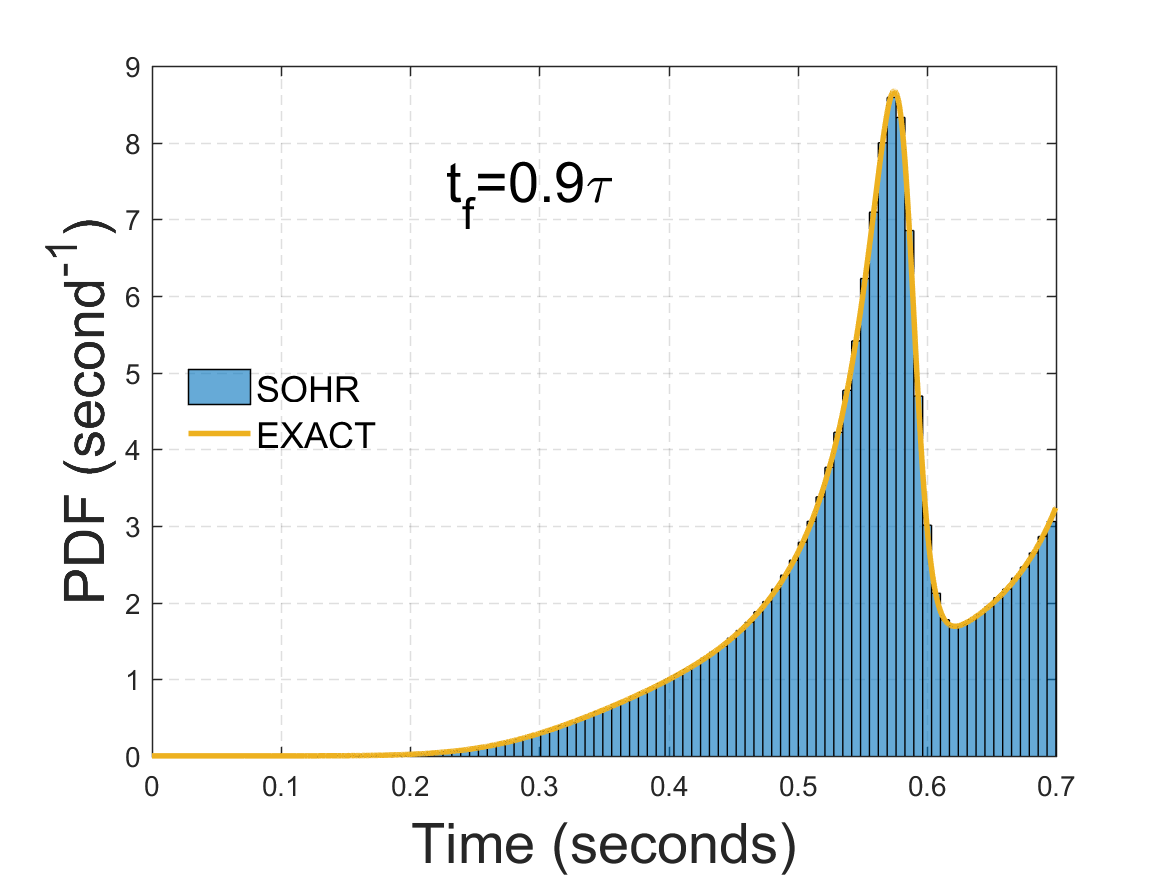
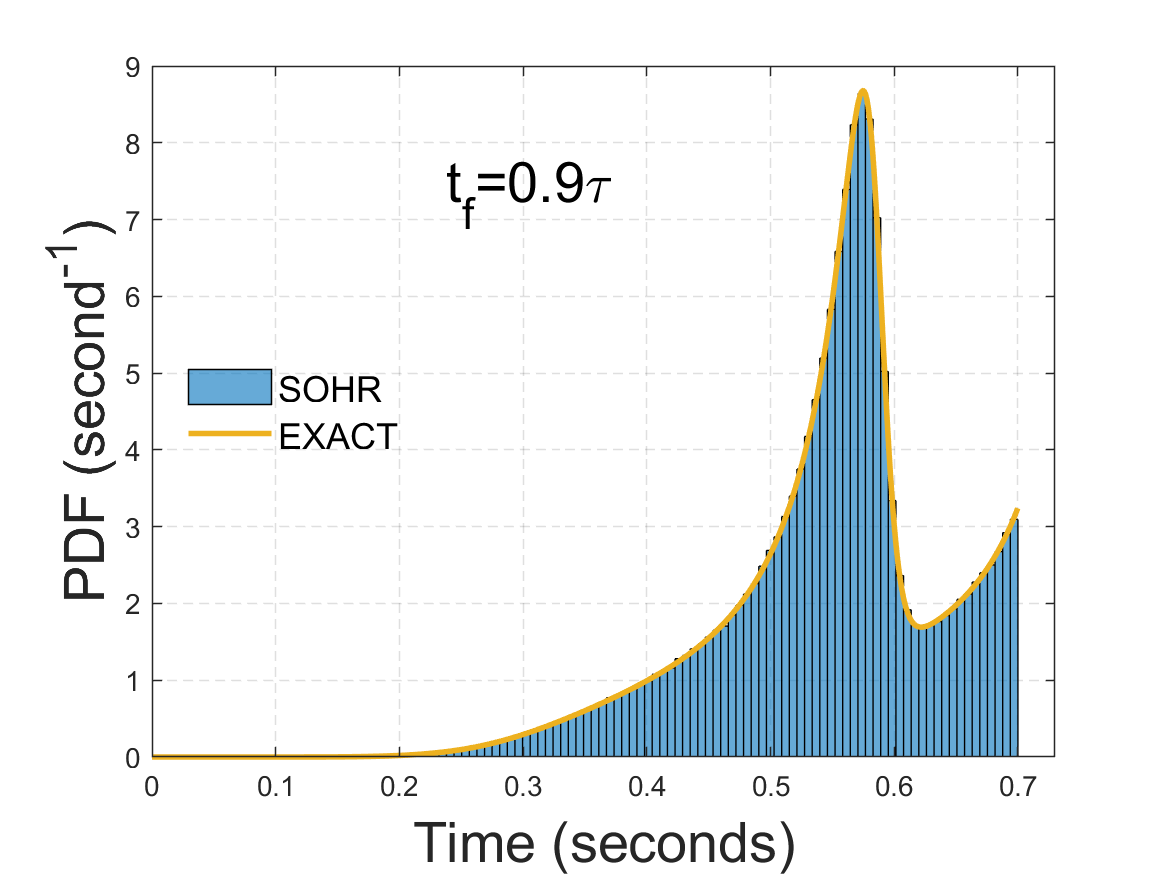
minor

diff --git a/theory/misc/life_time/plot_k_temp_panel4.m b/theory/misc/life_time/plot_k_temp_panel4.m
@@ -31,6 +31,22 @@ drc_mat = [dataArray{1:end-1}];
 %% Clear temporary variables
 clearvars fn_conc delimiter formatSpec fileID dataArray ans;
 
+%% chattering group drc
+%% Initialize variables.
+fn_chattering_drc = fullfile(file_dir, 'output', 'chattering_group_drc_dlsode_M.csv');
+
+delimiter = ',';
+formatSpec = '%f%f%f%f%f%f%f%f%f%[^\n\r]';
+%% Open the text file.
+fileID = fopen(fn_chattering_drc,'r');
+dataArray = textscan(fileID, formatSpec, 'Delimiter', delimiter, 'EmptyValue' ,NaN, 'ReturnOnError', false);
+%% Close the text file.
+fclose(fileID);
+%% Create output variable
+chattering_drc_mat = [dataArray{1:end-1}];
+%% Clear temporary variables
+clearvars fn_chattering_drc delimiter formatSpec fileID dataArray ans;
+
 %% import temperature
 fn_temp = fullfile(file_dir, 'output', 'temperature_dlsode_M.csv');
 delimiter = '';
@@ -56,7 +72,7 @@ co = [    0    0.4470    0.7410 % 1th plot
     0.4940    0.1840    0.5560 % 4th plot
     0.4660    0.6740    0.1880 % 5th plot
     0.3010    0.7450    0.9330 % 6th plot
-    0.6350    0.0780    0.1840 % 7th plot
+%     0.6350    0.0780    0.1840 % 7th plot
 %     0         0    1.0000 % 8th plot, blue
     1   0   0]; % 9th plot, red
 set(fig,'defaultAxesColorOrder',co)
@@ -65,48 +81,44 @@ tau = 0.777660157519;
 end_t = 0.9;
 
 % plot drc
-% CO
-p1 = semilogy(time_vec, 1./drc_mat(:, 15), 'LineWidth', 2); hold on;
-% C3H6
-p2 = semilogy(time_vec, 1./drc_mat(:, 60), 'LineWidth', 2); hold on;
-% CH2O
-p3 = semilogy(time_vec, 1./drc_mat(:, 18), 'LineWidth', 2); hold on;
-% H2O2
-p4 = semilogy(time_vec, 1./drc_mat(:, 14), 'LineWidth', 2); hold on;
-% acrolein
-p5 = semilogy(time_vec, 1./drc_mat(:, 70), 'LineWidth', 2); hold on;
+% OH
+p1 = semilogy(time_vec, 1./drc_mat(:, 10+1), 'LineWidth', 2); hold on;
+% chattering drc
+ch_idx = 4;
+p2 = semilogy(time_vec, 1./chattering_drc_mat(:, ch_idx), 'LineWidth', 2); hold on;
 % prod_1
-p6 = semilogy(time_vec, 1./drc_mat(:, 95), 'LineWidth', 2); hold on;
-% HO2
-p7 = semilogy(time_vec, 1./drc_mat(:, 13), 'LineWidth', 2); hold on;
-% % vinoxy
-% p8 = semilogy(time_vec, 1./drc_mat(:, 47), 'LineWidth', 2); hold on;
+p4 = semilogy(time_vec, 1./drc_mat(:, 94+1), 'LineWidth', 2); hold on;
+% frag_1
+p5 = semilogy(time_vec, 1./drc_mat(:, 101+1), 'LineWidth', 2); hold on;
+% vinoxy
+p7 = semilogy(time_vec, 1./drc_mat(:, 46+1), 'LineWidth', 2); hold on;
+% CO
+p8 = semilogy(time_vec, 1./drc_mat(:, 14+1), 'LineWidth', 2); hold on;
 
 %% conc
 set(gca,'GridLineStyle','--');
 xlabel('Time (seconds)', 'FontSize', 20);
 ylabel('k^{-1} (seconds)', 'FontSize', 20);
-ylim([10^-4, 10^8]);
+ylim([10^-8, 10^8]);
 
 %% temp
 yyaxis right
-delta_n = 1000;
+delta_n2 = 1000;
 plot(time_vec, temp_vec, 'LineWidth', 2, 'color', 'r'); hold on;
-pt = scatter(time_vec(1:delta_n:end), temp_vec(1:delta_n:end), 'MarkerEdgeColor', 'r');
+pt = scatter(time_vec(1:delta_n2:end), temp_vec(1:delta_n2:end), 'MarkerEdgeColor', 'r');
 ylabel('T (K)', 'FontSize', 20);
 % set(gca, 'ytick', []);
 
 %% global settings
 grid on;
 xlim([0, tau*end_t]);
-% leg_h = legend([p1; p2; p3; p4; p5; p6; p7; p8],'CO','C_3H_6','CH_2O','H_2O_2','Acrolein','OQ^{\prime}OOH_1', 'HO_2', 'vinoxy');
-leg_h = legend([p1; p2; p3; p4; p5; p6; p7],'CO','C_3H_6','CH_2O','H_2O_2','Acrolein','OQ^{\prime}OOH_1', 'HO_2');
+leg_h = legend([p1; p2; p4; p5; p7; p8],'OH \rightarrow','chattering group (O_2QOOH_1 \rightarrow)','OQ^{\prime}OOH_1 \rightarrow','OQ^{\prime}O_1 \rightarrow', 'vinoxy \rightarrow', 'CO (stable)');
 set(leg_h, 'FontSize', 14, 'Box', 'off');
 set(leg_h, 'Location', 'North')
 
 
 %% save to file
-figname = strcat('drc_panel3', '.png');
+figname = strcat('drc_panel4', '.png');
 print(fig, fullfile(file_dir, 'output', figname), '-r200', '-dpng');
 
 

diff --git a/theory/misc/species_passage_time/passage_time_distribution_v3.m b/theory/misc/species_passage_time/passage_time_distribution_v3.m
@@ -1,9 +1,13 @@
 %% global settings
-species_idx = 10;
-species_name = 'OH';
+init_s = 10;
+% species_idx = 10;
+% species_name = 'OH';
+species_idx = 62;
+species_name = 'C3H8';
 % end_t = '0.25718313951098054';
 % end_t = '0.5';
-end_t = '1e-06';
+end_t = '0.9';
+% end_t = '1e-06';
 % end_t = '1.0';
 
 % text_str = 't_f=0.2 seconds';
@@ -13,7 +17,7 @@ text_str = 't_f=0.9\tau';
 
 %% read file
 file_dir_PT = fullfile(fileparts(mfilename('fullpath')));
-fn_PT = fullfile(file_dir_PT, species_name,'data', ['species_pathway_AT_S',num2str(species_idx), '_HA4_', end_t ,'.csv']);
+fn_PT = fullfile(file_dir_PT, species_name,'data', ['species_pathway_AT_S',num2str(init_s), '_HA4_', end_t ,'.csv']);
 
 delimiter = '';
 formatSpec = '%f%[^\n\r]';
@@ -71,12 +75,12 @@ p2= plot(time_pt_vec, pt_drc_vec, 'color',co(2, :), 'LineWidth', 2); hold on;
 set(gca,'GridLineStyle','--');
 xlabel('Time (seconds)', 'FontSize', 20);
 ylabel('PDF ({second}^{-1})', 'FontSize', 20);
-xlim([0.0, 10^(-6)]);
+% xlim([0.0, 10^(-6)]);
 
 leg_h = legend([p1; p2],... 
     'SOHR', 'EXACT');
 set(leg_h, 'FontSize', 13, 'Box', 'off');
-set(leg_h, 'Location', 'East')
+set(leg_h, 'Location', 'West')
 
 %% global figure settings
 grid on;
